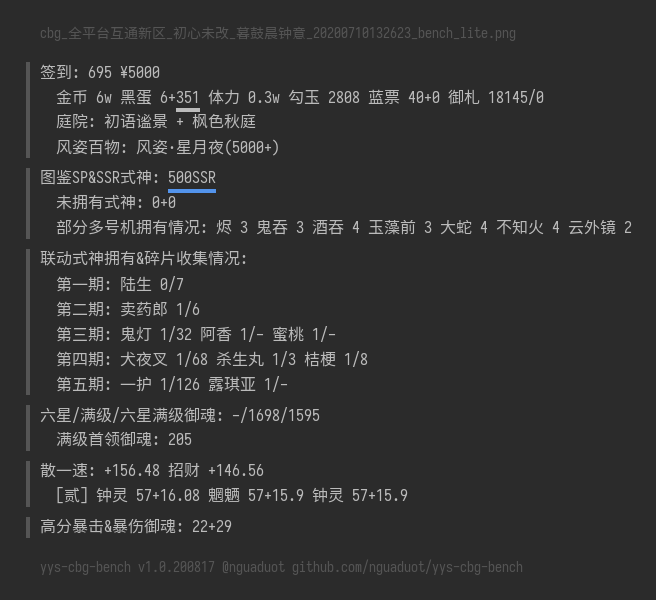
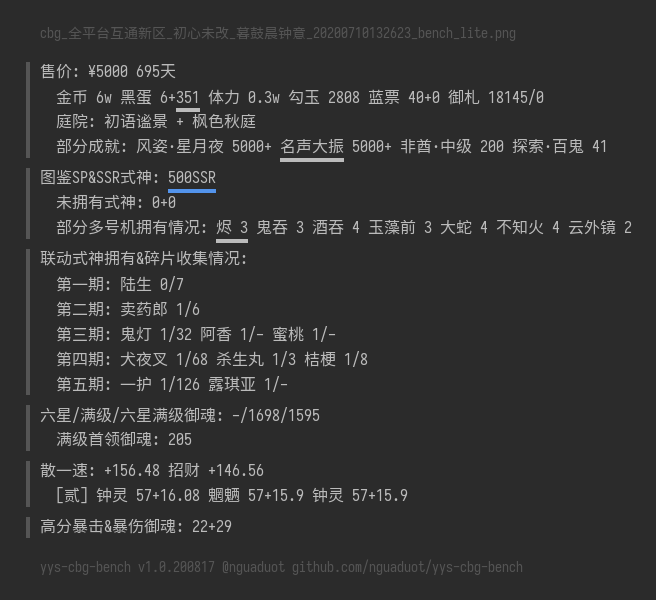
v1.0.alpha

diff --git a/README.md b/README.md
@@ -31,10 +31,10 @@ python cbg_bench.py -h
 + 若未指定 -u, 程序会读取未知参数, 若也无未知参数, 不启动程序
 + 不带任何参数也可启动程序, 会有参数输入引导
 输出结果:
-签到: {天数} ¥{售价} {若检测到合服则显示提示, 多服合一无法获知归属服, 需留心}
+售价: ¥{售价} {天数}天 !{若不满级则显示提示} !{若检测到合服则显示提示, 多服合一无法获知归属服, 需留心}
   金币 {金币} 黑蛋 {'御行达摩'数量+推测已消耗量(据此可了解练度)} 体力 {体力} 勾玉 {勾玉} 蓝票 {神秘的符咒+现世符咒} 御札 {御札/金御札}
   庭院: 初语谧景 + {除初始之外的其他庭院}
-  风姿百物: {风姿度, 据此可了解外观向收集量(皮肤/头像框等)}
+  部分成就: {风姿度, 据此可了解外观向收集量(皮肤/头像框等)} {成就点数, 5000+可报名特邀测试} {已达成的最高非酋成就} {探索关卡的妖怪是否全部发现}
 图鉴SP&SSR式神: {'500天未收录SSR'未使用则显示} {'999天未收录SP'未使用则显示}
   未拥有式神: {未拥有SP数量}+{未拥有SSR数量}
     SP碎片收集: {未拥有式神(图鉴已点亮也可能未拥有, 需留心)} {该式神碎片量, 据此可知有无碗} ...
